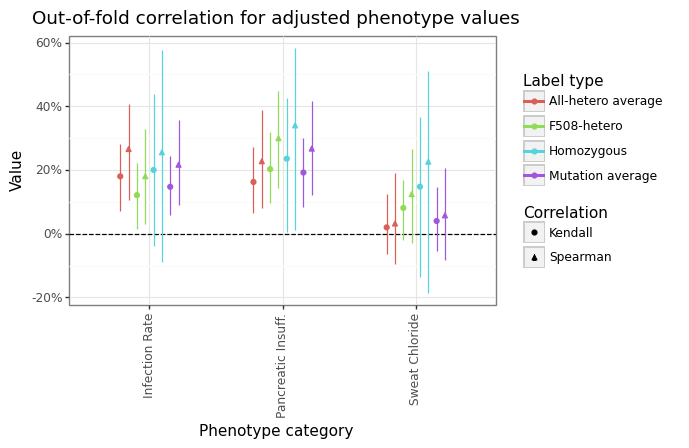
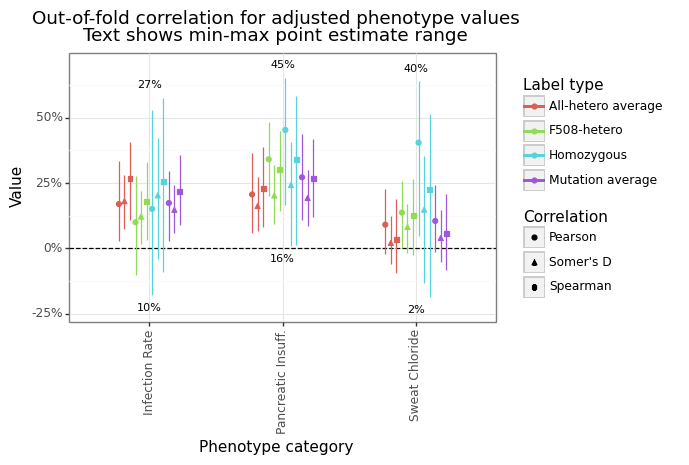
adding performance deltas

diff --git a/8_predict_y.py b/8_predict_y.py
@@ -19,12 +19,16 @@ from utilities.model import mdl
 from utilities.utils import merge_pairwise_dfs
 from parameters import dir_data, dir_figures, seed, n_folds
 
+# Clean up for performance
+di_perf_msr = {'pearson':'Pearson', 'somersd':"Somer's D", 'rho':'Spearman'} # , 'tau':'Kendall', 'r2':'R-squared'
+
 
 #########################
 # --- (1) LOAD DATA --- #
 
 # (i) Load the multi-indexed y-values
 y_adj = pd.read_csv(os.path.join(dir_data, 'y_adjusted.csv'),index_col=[0], header=[0,1,2])
+y_adj.columns.names = pd.Series(y_adj.columns.names).replace({None:'decomp'})
 # Extract the "error"
 y_err = y_adj.xs('err',1,0)
 y_err.columns = y_err.columns.map('_'.join)
@@ -48,6 +52,8 @@ y_err = y_err.loc[mutations]
 #################################
 # --- (2) K-FOLD PREDICTION --- #
 
+# For storage
+path_pred = os.path.join(dir_data,'pred_res_y.csv')
 # Loop over KFold
 splitter = KFold(n_splits=n_folds, random_state=seed, shuffle=True)
 holder_idx = []
@@ -62,20 +68,23 @@ for fold, idx in enumerate(splitter.split(X=mutations)):
     x_test = df_x.loc[tmuts].copy()
 
     # Fit model
-    algorition = mdl()
-    algorition.fit(x_train, y_train)
-    yhat_test = pd.DataFrame(algorition.predict(x_test), columns=y_test.columns, index=y_test.index)
+    algorithm = mdl()
+    algorithm.fit(x_train, y_train)
+    yhat_test = pd.DataFrame(algorithm.predict(x_test), columns=y_test.columns, index=y_test.index)
     holder_idx.append(yhat_test)
 # Merge and save
 res_oof = pd.concat(holder_idx)
 dat_scatter = merge_pairwise_dfs(y_err.loc[res_oof.index], res_oof)
 dat_scatter.rename(columns={'value_x':'y', 'value_y':'yhat'}, inplace=True)
-dat_scatter.to_csv(os.path.join(dir_data,'pred_res_y.csv'), index=True)
+dat_scatter.to_csv(path_pred, index=True)
 # Print the algorithm size
-if all([v in dir(algorition.algorithm) for v in ['intercepts_','coefs_']]):
-    n_params = sum([i.shape[0] for i in algorition.algorithm.intercepts_])
-    n_params += sum([np.prod(c.shape) for c in algorition.algorithm.coefs_])
-    print(f'Model has a total of {n_params:,} parameters')
+if 'algorithm' in dir():
+    if all([v in dir(algorithm.algorithm) for v in ['intercepts_','coefs_']]):
+        n_params = sum([i.shape[0] for i in algorithm.algorithm.intercepts_])
+        n_params += sum([np.prod(c.shape) for c in algorithm.algorithm.coefs_])
+        print(f'Model has a total of {n_params:,} parameters')
+if not 'dat_scatter' in dir():
+    dat_scatter = pd.read_csv(path_pred)
 
 
 #######################
@@ -84,8 +93,9 @@ if all([v in dir(algorition.algorithm) for v in ['intercepts_','coefs_']]):
 # Load in modules to calculate results
 import plotnine as pn
 from parameters import n_boot, alpha
+from utilities.utils import cat_from_map
 from utilities.processing import di_ylbl, di_category
-from utilities.stats import get_perf_msrs, bootstrap_function
+from utilities.stats import get_perf_msrs, bootstrap_function, get_perf_diff
 
 # (i) Clean up the names for plotting
 tmp_df = dat_scatter['cn'].str.split('\\_',regex=True)
@@ -96,9 +106,11 @@ dat_eval = pd.concat(objs=[tmp_df, dat_scatter.drop(columns='cn')],axis=1)
 
 # (ii) Get the point estimate and CIs around correlation performance
 cn_gg = ['category','lbl']
-res_fold = bootstrap_function(dat_eval, get_perf_msrs, 'value', cn_gg, n_boot, alpha,{'cn_gg':cn_gg, 'cn_y':'y', 'cn_yhat':'yhat'})
-res_fold = res_fold[res_fold['msr'] != 'r2']
-res_fold['msr'] = res_fold['msr'].map({'rho':'Spearman', 'tau':'Kendall'})
+res_fold = bootstrap_function(dat_eval, get_perf_msrs, 'value', cn_gg, n_boot, alpha,{'cn_gg':cn_gg, 'cn_y':'y', 'cn_yhat':'yhat', 'add_pearson':True, 'add_somersd':'True'})
+res_fold.to_csv(os.path.join(dir_data, 'res_oof.csv'), index=False)
+res_fold_cat = res_fold.assign(msr=lambda x: cat_from_map(x['msr'], di_perf_msr))
+res_fold_cat = res_fold_cat.dropna().reset_index(drop=True)
+(100*res_fold_cat.groupby('msr')['value'].agg({'mean','median','min','max'}).round(2)).astype(int).astype(str)+'%'
 
 # (iii) Plot the predicted vs actual values
 tmp_txt = dat_eval.query('idx.isin(["F508del","R347H"])').copy()
@@ -112,20 +124,115 @@ gg_oof_scatter = (pn.ggplot(dat_eval, pn.aes(x='yhat',y='y')) +
     pn.geom_smooth(method='lm',se=False))
 gg_oof_scatter.save(os.path.join(dir_figures, 'oof_scatter.png'),width=9,height=h)
 
-
 # (iv) Plot the overall performance
 posd = pn.position_dodge(0.5)
-gg_oof_ffn = (pn.ggplot(res_fold, pn.aes(x='category',y='value',color='lbl',shape='msr')) + 
+nudge = 0.05
+txt_res = res_fold_cat.groupby('category').agg({'value':['min','max'], 'lb':'min', 'ub':'max'})
+tmp1 = txt_res.xs('min',1,1).rename(columns={'lb':'y'}).set_index('value',append=True)
+tmp2 = txt_res.xs('max',1,1).rename(columns={'ub':'y'}).set_index('value',append=True)
+txt_res = pd.concat(objs=[tmp1-nudge, tmp2+nudge]).reset_index()
+gg_oof_ffn = (pn.ggplot(res_fold_cat, pn.aes(x='category',y='value',color='lbl',shape='msr')) + 
     pn.theme_bw() + pn.labs(y='Value',x='Phenotype category') + 
     pn.geom_hline(yintercept=0,linetype='--') + 
-    pn.ggtitle('Out-of-fold correlation for adjusted phenotype values') + 
+    pn.ggtitle('Out-of-fold correlation for adjusted phenotype values\nText shows min-max point estimate range') + 
     pn.scale_color_discrete(name='Label type') + 
     pn.scale_shape_discrete(name='Correlation') + 
     pn.geom_point(position=posd) + 
+    pn.geom_text(pn.aes(y='y',label='100*value',x='category'),size=8,format_string='{:.0f}%',inherit_aes=False,data=txt_res) + 
     pn.geom_linerange(pn.aes(ymin='lb',ymax='ub'),position=posd) + 
     pn.theme( axis_text_x=pn.element_text(angle=90)) + 
     pn.scale_y_continuous(labels=percent_format()))
 gg_oof_ffn.save(os.path.join(dir_figures, 'oof_perf.png'),width=5.5,height=3.5)
+
+
+#####################################
+# --- (4) RELATIVE CONTRIBUTION --- #
+
+# Merge the data and check
+tmp1 = y_adj.melt(ignore_index=False).dropna().assign(cn=lambda x: x['category']+'_'+x['lbl']).drop(columns=['category','lbl'])
+tmp1 = tmp1.reset_index().pivot(['mutation','cn'],'decomp','value').reset_index().rename(columns={'yhat':'nw'})
+tmp2 = dat_scatter.rename(columns={'idx':'mutation','y':'err','yhat':'nnet'})
+df_contrib = tmp2.merge(tmp1, 'left', on=['mutation','cn'], suffixes=('_scatter','_adj'))
+assert np.abs(df_contrib['err_scatter'] - df_contrib['err_adj']).max() <= 1e-12, 'Expected values to be the same'
+df_contrib = df_contrib.drop(columns='err_scatter').rename(columns={'err_adj':'err'})
+# compare y ~ nw to y ~ nw+nnet
+df_contrib = df_contrib.assign(stacked=lambda x: x['nw']+x['nnet'])
+df_contrib = df_contrib.melt(['mutation','cn','y'],['nw','stacked'],'mdl','yhat')
+# Clean up the category/label
+tmp_df = df_contrib['cn'].str.split('\\_',regex=True)
+tmp_df = pd.DataFrame({'category':tmp_df.str[:-1].map('_'.join), 'lbl':tmp_df.str[-1]})
+tmp_df['lbl'] = tmp_df['lbl'].map(di_ylbl)
+tmp_df['category'] = tmp_df['category'].map(di_category)
+df_contrib = pd.concat(objs=[tmp_df, df_contrib.drop(columns='cn')],axis=1)
+
+# Prepare name arguments
+cn_gg = ['category','lbl','mdl']
+di_args_perf = {'cn_gg':cn_gg,'cn_y':'y','cn_yhat':'yhat','add_pearson':True,'add_somersd':True}
+cn_index = ['category','lbl','msr']
+cn_col='mdl'
+cn_val='value'
+di_args_diff = {'function':get_perf_msrs, 'di_args':di_args_perf, 'cn_index':cn_index, 'cn_col':cn_col, 'cn_val':cn_val}
+# Get the distribution over differences
+res_diff = bootstrap_function(df_contrib, get_perf_diff, cn_val='value', cn_gg=['category','lbl'], n_boot=n_boot, di_args=di_args_diff, verbose=True)
+
+
+res_diff.query('category=="Infection Rate" & msr=="pearson"').drop(columns=['category','msr','se','is_sig'])
+
+# Get the baseline and on on differences
+res_bl = get_perf_msrs(df_contrib, **di_args_perf).pivot(cn_index, cn_col, cn_val)
+res_bl_comp = res_bl.reset_index().merge(res_diff)
+res_bl_comp = res_bl_comp.assign(lb=lambda x: x['nw']+x['lb']).assign(check=lambda x: x['lb'] < x['stacked'])
+assert res_bl_comp['check'].all(), 'Lower bound should not be greater than model point estimate'
+res_bl_comp = res_bl_comp.assign(ub=lambda x: x['nw']+x['ub']).assign(check=lambda x: x['ub'] > x['stacked'])
+assert res_bl_comp['check'].all(), 'Upper bound should not be greater than model point estimate'
+res_bl_comp.drop(columns='check', inplace=True)
+res_bl_comp = res_bl_comp.melt(cn_index+['value','lb','ub','is_sig'],res_bl.columns.to_list(),'mdl','perf')
+res_bl_comp = res_bl_comp.assign(lb=lambda x: np.where(x['mdl']=='nw', np.nan, x['lb']))
+res_bl_comp = res_bl_comp.assign(ub=lambda x: np.where(x['mdl']=='nw', np.nan, x['ub']))
+res_bl_comp['mdl'] = res_bl_comp['mdl'].map({'nw':'NW', 'stacked':'NW+NNet'})
+res_bl_comp['msr'] = cat_from_map(res_bl_comp['msr'], di_perf_msr)
+res_bl_comp = res_bl_comp[res_bl_comp['msr'].notnull()]
+# How much of an improvement is there for NW estimators > 0 correlation
+res_txt = res_diff.merge(res_bl.query('nw>0').set_index('nw',append=True).index.to_frame(False))
+res_txt['msr'] = cat_from_map(res_txt['msr'], di_perf_msr)
+res_txt = res_txt[res_txt['msr'].notnull()]
+res_txt = res_txt.groupby(['category','lbl'])['value'].agg({'mean','median'}).reset_index().assign(y=0.9)
+print(res_txt.round(2))
+
+# Plot the Nadarya-Watson estimator vs mdl
+posd = pn.position_dodge(0.5)
+gg_oof_diff = (pn.ggplot(res_bl_comp, pn.aes(x='lbl',y='perf',color='mdl',shape='msr',alpha='is_sig')) + 
+    pn.theme_bw() + 
+    pn.labs(y='Value',x='Label type') + 
+    pn.geom_hline(yintercept=0,linetype='--') + 
+    pn.facet_wrap('~category') + 
+    pn.ggtitle('Out-of-fold performance w/ (NW+NNet) & w/o ESMFold model (NW)\nHighlighted points are stat. sig. compared to NW only\nText shows median improvement for NW estimator w/ >0 correlation') + 
+    pn.scale_color_discrete(name='Model') + 
+    pn.scale_shape_discrete(name='Correlation') + 
+    pn.scale_alpha_manual(name='Significant',values=[0.3,1]) + 
+    pn.guides(alpha=False) + 
+    pn.geom_point(position=posd) + 
+    pn.geom_text(pn.aes(y='y',label='100*median',x='lbl'),size=8,format_string='{:.0f}%',inherit_aes=False,data=res_txt) + 
+    pn.geom_linerange(pn.aes(ymin='lb',ymax='ub'),position=posd) + 
+    pn.theme(axis_text_x=pn.element_text(angle=90)) + 
+    pn.scale_y_continuous(labels=percent_format()))
+gg_oof_diff.save(os.path.join(dir_figures, 'oof_diff_perf.png'),width=9,height=3)
+
+
+# Plot the scatter
+h = 1.75*df_contrib['category'].nunique()
+gg_smooth = pn.geom_smooth(method='lm',se=False, size=0.5)
+gg_smooth.DEFAULT_AES['linetype'] = 'dashed'
+gg_oof_diff_scatter = (pn.ggplot(df_contrib, pn.aes(x='yhat',y='y',color='mdl')) + 
+    pn.theme_bw() + pn.geom_point(size=0.5) + 
+    pn.labs(x='Predicted (out-of-fold)',y='Actual') + 
+    pn.scale_color_discrete(name='Model') + 
+    gg_smooth + 
+    pn.facet_grid('category~lbl',scales='fixed') + 
+    pn.ggtitle('Predicted vs actual phenotype for NW vs NW+NNet\nDashed line shows OLS fit') + 
+    pn.geom_smooth(method='lm',se=False))
+gg_oof_diff_scatter.save(os.path.join(dir_figures, 'oof_diff_scatter.png'),width=9,height=h)
+
 
 
 print('~~~ End of 9_predict_y.py ~~~')

diff --git a/utilities/stats.py b/utilities/stats.py
@@ -5,14 +5,35 @@ Utility methods for statistical functions
 # Load modules
 import numpy as np
 import pandas as pd
+from time import time
 from typing import Callable
 from sklearn.metrics import r2_score
 from sklearn.base import BaseEstimator
-from scipy.stats import kendalltau, spearmanr
+from scipy.stats import kendalltau, spearmanr, pearsonr
 from sklearn.preprocessing import StandardScaler
 from statsmodels.nonparametric.kernel_regression import KernelReg
 # Internal modules
 from utilities.utils import str2list, cvec, merge_pairwise_dfs
+
+
+def concordance(y:np.ndarray, yhat:np.ndarray) -> float:
+    """Learn to rank measure of concordance: P(s_i > s_j | y_i > y_j)"""
+    yord = np.argsort(y)
+    y, yhat = y[yord], yhat[yord]
+    success, total = 0.0, 0.0
+    for i in range(1,len(y)):
+        comp_gt = yhat[i] > yhat[:i]
+        comp_eq = yhat[i] == yhat[:i]
+        success += sum(comp_gt) + sum(comp_eq)/2
+        total += len(comp_gt)
+    conc = success / total
+    return conc
+
+
+def somersd(y:np.ndarray, yhat:np.ndarray) -> float:
+    """Transformation of concordance to the [-1,1] scale"""
+    res = 2*concordance(y, yhat) - 1
+    return res
 
 
 def gauss_kernel(z:np.ndarray) -> np.ndarray:
@@ -63,13 +84,50 @@ class NadarayaWatson(BaseEstimator):
         return res
         
         
-def get_perf_msrs(df:pd.DataFrame, cn_gg:str or list, cn_y:str, cn_yhat:str) -> pd.DataFrame:
+def get_perf_msrs(df:pd.DataFrame, cn_gg:str or list, cn_y:str, cn_yhat:str, add_pearson:bool=False, add_somersd:bool=False) -> pd.DataFrame:
     """Get the R2, spearman, and kendal measures of correlation"""
     assert isinstance(df, pd.DataFrame)
     cn_gg = str2list(cn_gg)
     res = df.groupby(cn_gg).apply(lambda x: pd.DataFrame({'r2':r2_score(x[cn_y], x[cn_yhat]), 'tau':kendalltau(x[cn_y].values, x[cn_yhat].values)[0], 'rho':spearmanr(x[cn_y].values, x[cn_yhat].values)[0]},index=[0]))
+    if add_pearson:
+        res2 = df.groupby(cn_gg).apply(lambda x: pd.DataFrame({'pearson':pearsonr(x[cn_y].values, x[cn_yhat].values)[0]},index=[0]))
+        res = pd.concat(objs=[res, res2],axis=1)
+    if add_somersd:
+        res3 = df.groupby(cn_gg).apply(lambda x: pd.DataFrame({'somersd':somersd(x[cn_y].values, x[cn_yhat].values)},index=[0]))
+        res = pd.concat(objs=[res, res3],axis=1)
     res = res.reset_index().drop(columns=f'level_{len(cn_gg)}')
     res = res.melt(cn_gg,var_name='msr')
+    return res
+
+
+def get_perf_diff(df:pd.DataFrame, function:Callable, di_args:dict, cn_index:str or list, cn_col:str or list, cn_val:str or list) -> pd.DataFrame:
+    """Convenience wrapper for calculating the difference between two factors that are outputted by some arbitrary function
+    
+    Parameters
+    ----------
+    df:                 DataFrame that neesd into first named argument in functino
+    function:           Some callable function that returns a DF that can be pivoted with cn_{index,col,val}
+    di_args:            Dictionary whose keys correspond to named arguments of function (e.g. function(df,**di_args))
+    cn_index:           Index names
+    cn_col:             Column names
+    cn_val:             Value names
+
+    Returns
+    -------
+    A DataFrame with columns cn_index and 'value'
+    """
+    # Input checks
+    assert isinstance(df, pd.DataFrame)
+    assert isinstance(function, Callable), 'function is not callable'
+    assert all([isinstance(c, str) or isinstance(c, list) for c in str2list(cn_index) + str2list(cn_col) + str2list(cn_val)]), 'cn_{} needs be a string or a list'
+    # Run function
+    res = function(df, **di_args)
+    # Get rowwise difference
+    res = res.pivot(cn_index, cn_col, cn_val).diff(axis=1)
+    # Get column with most non-missing values
+    cn_max = res.notnull().sum().idxmax()
+    res = res[cn_max].reset_index()
+    res.rename(columns={cn_max:'value'}, inplace=True)
     return res
 
 
@@ -84,7 +142,7 @@ def perf_btw_mats(df1:pd.DataFrame, df2: pd.DataFrame) -> pd.DataFrame:
     return res
 
 
-def bootstrap_function(df:pd.DataFrame, function:Callable, cn_val:str, cn_gg:str or list, n_boot:int=100, alpha:float=0.05, di_args:dict={}) -> pd.DataFrame:
+def bootstrap_function(df:pd.DataFrame, function:Callable, cn_val:str, cn_gg:str or list, n_boot:int=100, alpha:float=0.05, di_args:dict={}, verbose:bool=False) -> pd.DataFrame:
     """
     A generic wrapper for getting the bootstrapped confidence intervals for some "function"
 
@@ -114,7 +172,13 @@ def bootstrap_function(df:pd.DataFrame, function:Callable, cn_val:str, cn_gg:str
     
     # (iii) Perform the bootstrap
     holder_bs = []
+    stime = time()
     for i in range(n_boot):
+        if verbose:
+            dtime, nleft = time() - stime, n_boot - (i+1)
+            rate = (i+1) / dtime
+            seta = nleft / rate
+            print(f'Iteration {i+1} of {n_boot} (ETA={seta/60:.2f} minutes)')
         df_bs = df.groupby(cn_gg).sample(frac=1,replace=True,random_state=i)
         df_bs = function(df_bs, **di_args).assign(idx=i)
         holder_bs.append(df_bs)

diff --git a/9_summary_stats.py b/9_summary_stats.py
@@ -20,8 +20,9 @@ import waterfall_chart
 from mizani.formatters import percent_format
 # Local modules
 from parameters import alpha, n_boot, dir_data, dir_figures, reference_file
+from utilities.stats import bootstrap_function, get_perf_diff
 from utilities.utils import get_cDNA_variant_types, bootstrap_rho, find_arrow_adjustments, cat_from_map, find_closest_match, find_unique_combinations
-from utilities.processing import di_ylbl, di_category, di_vartype, cn_category, vals_catory, get_y_f508, get_y_int, get_y_hetero_ave, get_y_homo
+from utilities.processing import di_ylbl, di_category, di_vartype, cn_category, get_y_f508, get_y_int, get_y_hetero_ave, get_y_homo
 
 # For multiindex slicing
 idx = pd.IndexSlice
@@ -85,6 +86,10 @@ dat_ncbi_loc = pd.read_csv(os.path.join(dir_data, 'ncbi_genome_loc.csv'), usecol
 cftr_gene = pd.read_csv(os.path.join(dir_data, 'cftr_exon_locs.csv'))
 dat_ncbi_loc['is_intron'] = ~dat_ncbi_loc['from'].isin(cftr_gene['idx'])
 print(f"There are {dat_ncbi_loc['is_intron'].sum()} intronic mutations")
+
+# (xiii) Load the NW-adjusted labels
+adj_y = pd.read_csv(os.path.join(dir_data,'y_adjusted.csv'),index_col=[0],header=[0,1,2])
+adj_y.columns.names = pd.Series(adj_y.columns.names).replace({None:'decomp'})
 
 
 #####################################
@@ -329,14 +334,9 @@ dat_hetero_other = dat_hetero_other.melt(ignore_index=False).dropna().reset_inde
 dat_hetero_other['category'] = cat_from_map(dat_hetero_other['category'],di_category)
 dat_hetero_f508_comp = dat_hetero_other.merge(data_f508_dist[dat_hetero_other.columns.drop('mutation2')],'inner',on=['mutation','category'],suffixes=('_hetero','_f508'))
 
-########################
-# --- (6)  --- #
-
-
-
 
 ########################
-# --- (7) PLOTTING --- #
+# --- (6) PLOTTING --- #
 
 # (i) Plot the GPU run-time of an A100
 dat_smooth = pd.DataFrame({'length':df_runtime['length'], 'smooth':extrap_star(df_runtime['length'])})

diff --git a/README.md b/README.md
@@ -6,7 +6,7 @@ The readme is structured in the numerical order that scripts should be run to en
 
 The pipeline.sh script shows the order in which the scripts can be run (in theory). In practice, the pipeline will need to be run in chunks unless script 5 (ESMFold) can be run locally. However, the original analysis leveraged a [cloud computing](https://cloud.lambdalabs.com) resource at this stage.
 
-<img src="figures/cftr2_flowchart.png" width="50%">
+<p align="center"><img src="cftr2_flowchart.png" width="50%"></p>
 
 <br>
 
@@ -50,7 +50,7 @@ Being able to run ESMFold at any reasonable speed means having access to a GPU. 
 
 There will be a `data/esmfold/{mutant}.npy` file for 311 different mutations.
 
-<img src="figures/runtime.png" width="50%">
+<p align="center"><img src="figures/runtime.png" width="50%"></p>
 
 
 <br>
@@ -65,8 +65,7 @@ Scripts (6)-(9) take the embedding and label data generated by the previous data
 * [8_debias_y.py](8_debias_y.py): Uses a non-parametric regression model to adjust the various outcome measures for the amino acid length of the protein to adjust for confounding ([y_adjusted.csv](data/y_adjusted.csv)). In the absense of this judgement, a substantial amount of variation of the clinical outcomes can be accounted for by the fact that mutations that lead to early stop codons tend to have worse phenotypic outcomes.
 * [9_predict_y.py](9_predict_y.py): Uses the residuals from the previous script, a simple two-layer feedforward neural network is trained on the embedding features and 5-fold CV is used to assess out-of-fold accuracy. The OOF-predicted values are stored in the [pred_res_y.csv](data/pred_res_y.csv) file.
 
-
-<img src="figures/oof_scatter.png" width="50%">
+<p align="center"><img src="figures/oof_scatter.png" width="75%"></p>
 
 <br>
 
